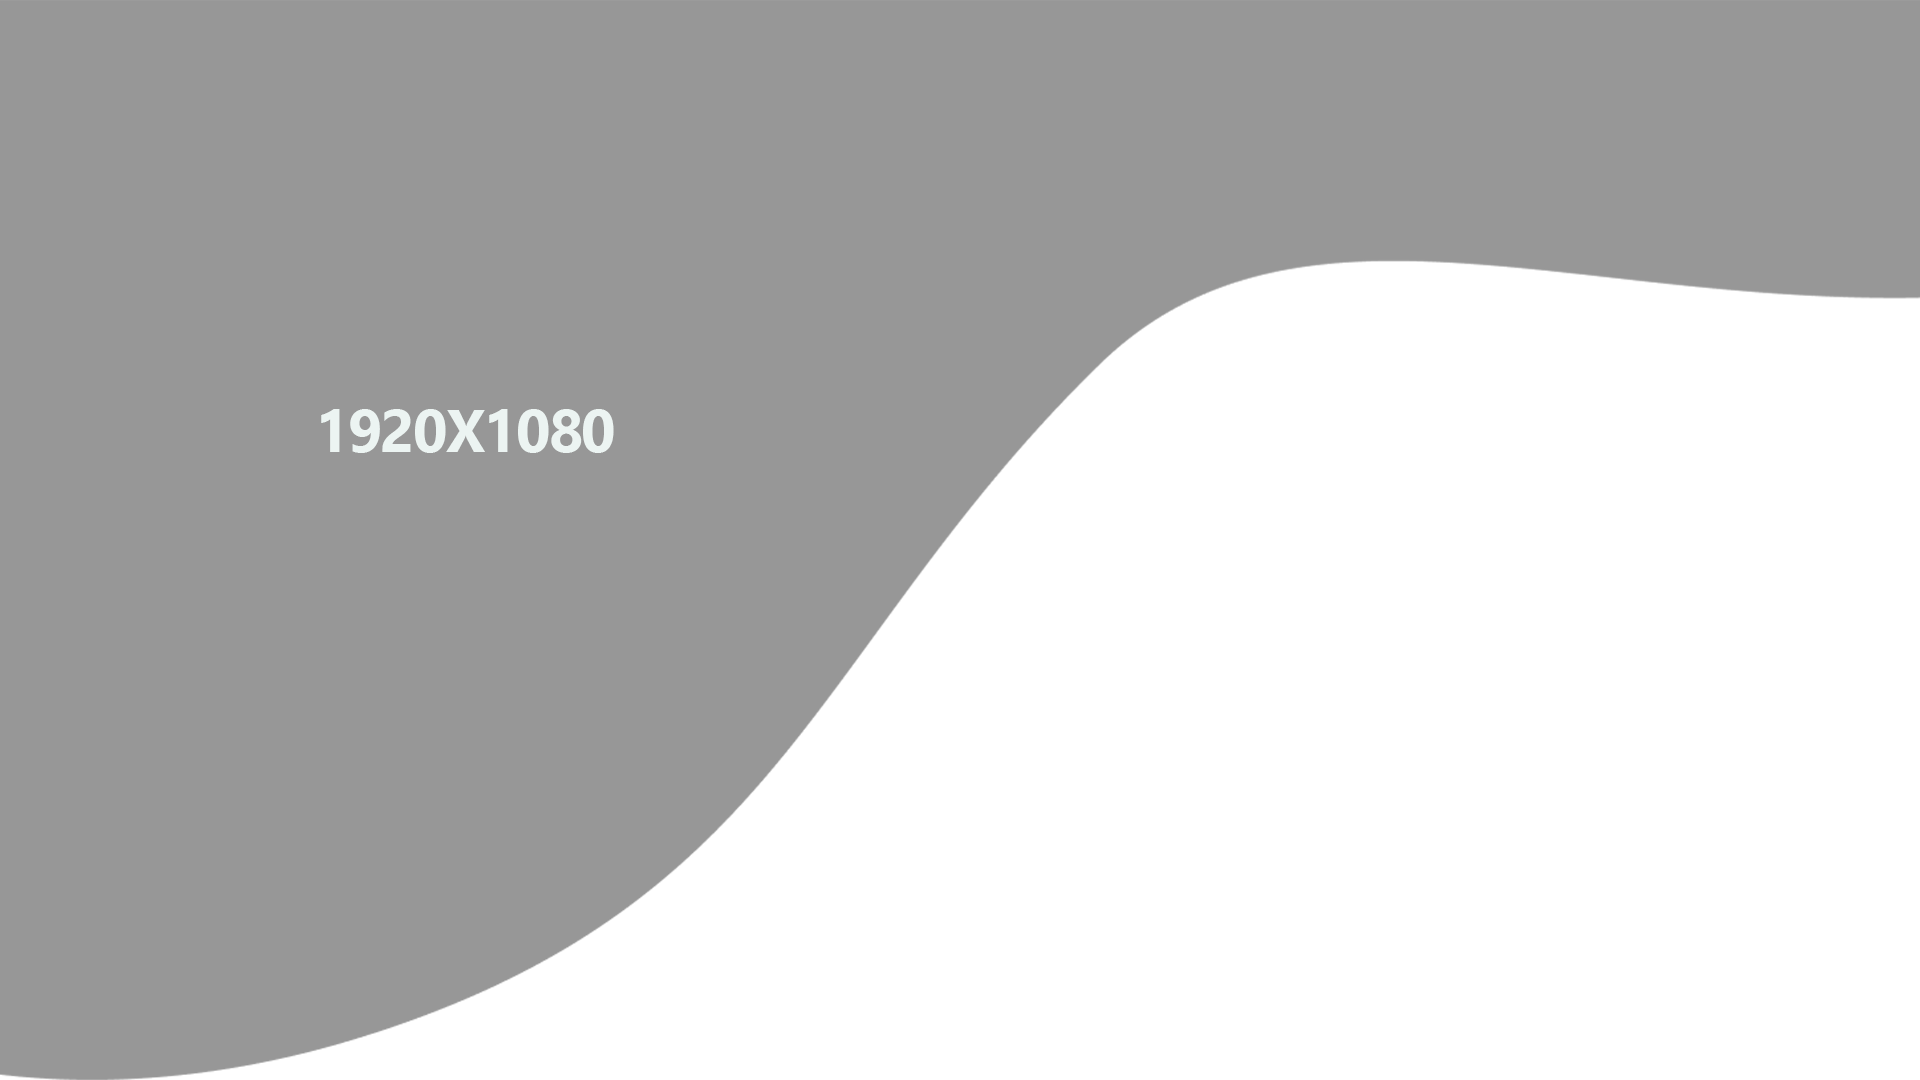
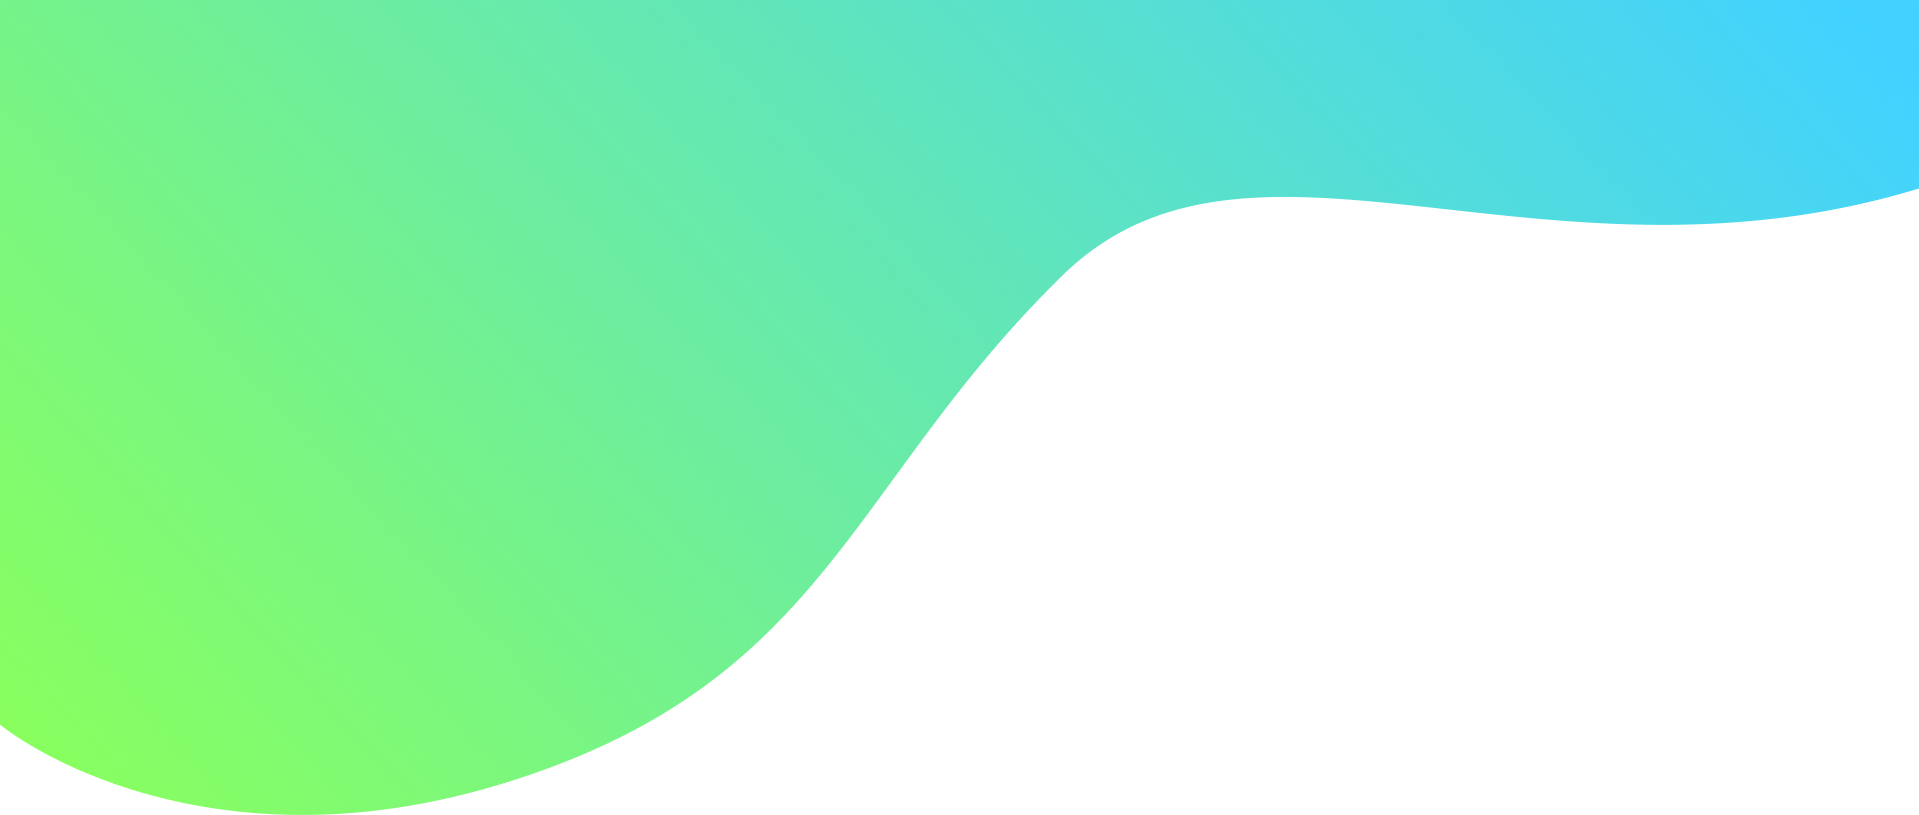
Initial Impressions

diff --git a/index.html b/index.html
@@ -2,7 +2,7 @@
 <html lang="ZXX">
 
 <head>
-	<title>COAGEX - Creative Agency Template</title>
+	<title>Anwesha ♥ | IIT Patna</title>
 	<!-- Required meta tags -->
 	<meta charset="utf-8">
 	<meta name="viewport" content="width=device-width, initial-scale=1, shrink-to-fit=no">
@@ -49,7 +49,7 @@
 					<!-- logo-area-->
 					<div class="col-xl-2 col-lg-3 col-md-3">
 						<div class="logo-area">
-							<a href="index.html"><img src="img/logo.png" alt="enventer"></a>
+							<a href="index.html"><img src="img/logo.png" alt="Anwesha"></a>
 						</div>
 					</div>
 					<!-- mainmenu-area-->
@@ -126,13 +126,12 @@
 						<div class="col-xl-12 col-lg-12 col-md-12">
 							<!--header text-->
 							<div class="intro-text">
-								<h1 data-aos="slide-right" data-aos-anchor-placement="top-bottom" data-aos-delay="700" data-aos-duration="1200">Creativity is a most <br> valuable asset</h1>
-								<p data-aos="fade-in" data-aos-anchor-placement="top-bottom" data-aos-delay="1500" data-aos-duration="1200">Lorem ipsum dolor sit amet, consectetur adipisicing elit. <br>
-									Quod ab tenetur itaque ullam repellendus ipsum! Nesciunt, <br> deserunt porro nihil culpa illo deleniti.</p>
+								<h1 data-aos="slide-right" data-aos-anchor-placement="top-bottom" data-aos-delay="700" data-aos-duration="1200">A Reflection of<br> Fond Rememberances</h1>
+								<p class = "think-dream-live" data-aos="fade-in" data-aos-anchor-placement="top-bottom" data-aos-delay="1500" data-aos-duration="1200">Think. Dream. Live. Anwesha.<br></p>
 								<div class="learnmore" data-aos="fade-in" data-aos-anchor-placement="top-bottom" data-aos-delay="1500" data-aos-duration="1200">
-									<a href="#" class="skill-btn">hire us</a>
+									<a href="https://www.youtube.com/watch?v=tare6Drw0Ng" class="skill-btn skill-btn-youtube popup-youtube">Aftermovie</a>
 									<div class="learnmore2">
-										<a href="https://www.youtube.com/watch?v=IMbG5et2pZw" class="skill-btn-youtube popup-youtube"><i class="far fa-play-circle"></i></a>
+										<a href="https://www.youtube.com/watch?v=tare6Drw0Ng" class="skill-btn-youtube popup-youtube"><i class="far fa-play-circle"></i></a>
 									</div>
 								</div>
 							</div>
@@ -140,13 +139,13 @@
 						<!--header artwork-->
 						<div class="header-1-artwork">
 							<div class="layer">
-								<img src="img/header-1-artwork.png" alt="">
-								<div class="layer-1" data-aos="fade-up" data-aos-anchor-placement="top-bottom" data-aos-delay="800" data-aos-duration="1000">
+								<img class = "anweshasignboard" src="img/anweshasignboard.png" alt="">
+								<!-- <div class="layer-1" data-aos="fade-up" data-aos-anchor-placement="top-bottom" data-aos-delay="800" data-aos-duration="1000">
 									<img src="img/man-in-board.png" alt="">
 								</div>
 								<div class="layer-2" data-aos="fade-up" data-aos-anchor-placement="top-bottom" data-aos-delay="800" data-aos-duration="1000">
 									<img src="img/man-in-pc.png" alt="">
-								</div>
+								</div> -->
 								<div class="layer-3">
 									<img src="img/spin.png" alt="">
 								</div>

diff --git a/style.css b/style.css
@@ -9,6 +9,8 @@ Website: www.enventer.com
 
 --------------------------------------------------------------
 
+0. Extra Imports
+
 1. Default Theme CSS
     1.1 Preloader
     1.2 Section Heading
@@ -124,12 +126,21 @@ Website: www.enventer.com
 
 /*==================== 1. Default Theme CSS ===================*/
 
+@font-face {
+	font-family: "zelda";
+	src: url("/fonts/ZELDA\ FILL.otf");
+	}
+
 html,
 body {
 	height: 100%;
 	font-family: 'Nunito', sans-serif;
 	margin: 0px;
-	padding: 0px
+	padding: 0px;
+}
+
+body {
+	background-color: navajowhite;
 }
 
 ::-moz-selection {
@@ -714,6 +725,7 @@ ul.dropdown li a:after {
 	height: 100vh;
 	width: 100%;
 	background-repeat: no-repeat;
+	background: linear-gradient(270deg, #00B0E7 0%, #75F389 100%);
 	background-image: url('img/header.png');
 	background-attachment: fixed;
 	background-size: cover;
@@ -769,7 +781,11 @@ ul.dropdown li a:after {
 .header-1-artwork {
 	position: absolute;
 	right: 60px;
-	bottom: -150px;
+	bottom: -200px;
+}
+
+.anweshasignboard {
+	height: 28vw;
 }
 
 .layer {
@@ -818,6 +834,7 @@ ul.dropdown li a:after {
 .intro-text {
 	text-align: left;
 	padding-top: 60px;
+	padding-left: 30px;
 }
 
 .intro-text-2 {
@@ -828,10 +845,16 @@ ul.dropdown li a:after {
 .intro-text h1 {
 	text-transform: capitalize;
 	font-size: 50px;
+	font-family: 'zelda';
 	line-height: 65px;
 	color: #3e3d3d;
 	margin-bottom: 10px;
 	font-weight: 900;
+}
+
+.intro-text p {
+	
+	font-size: 1.5em;
 }
 
 /*3.4 Header Button */

diff --git a/css/responsive.css b/css/responsive.css
@@ -39,10 +39,10 @@
 		max-width: 90%;
 		font-size: 23px
 	}
-
+/* 
 	.layer img {
 		width: 270px
-	}
+	} */
 
 	.layer-1 img {
 		width: 80px
